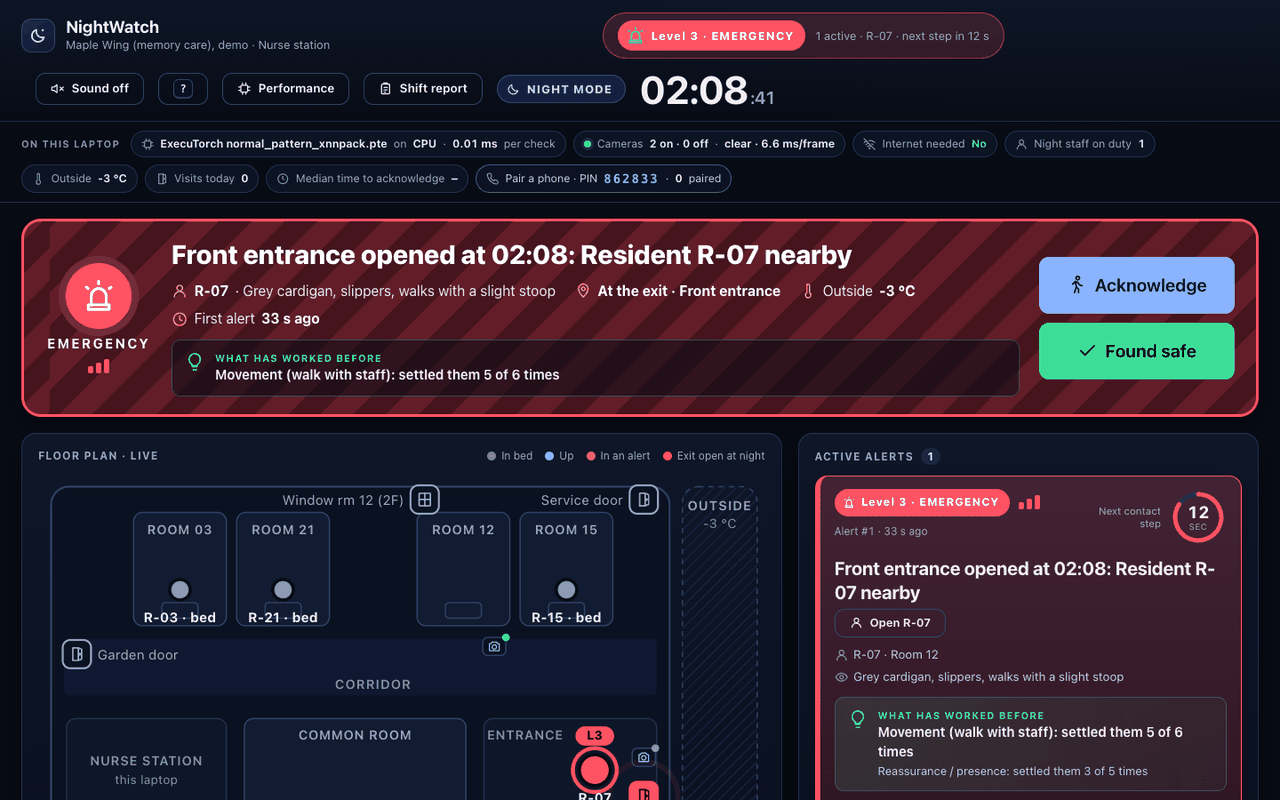
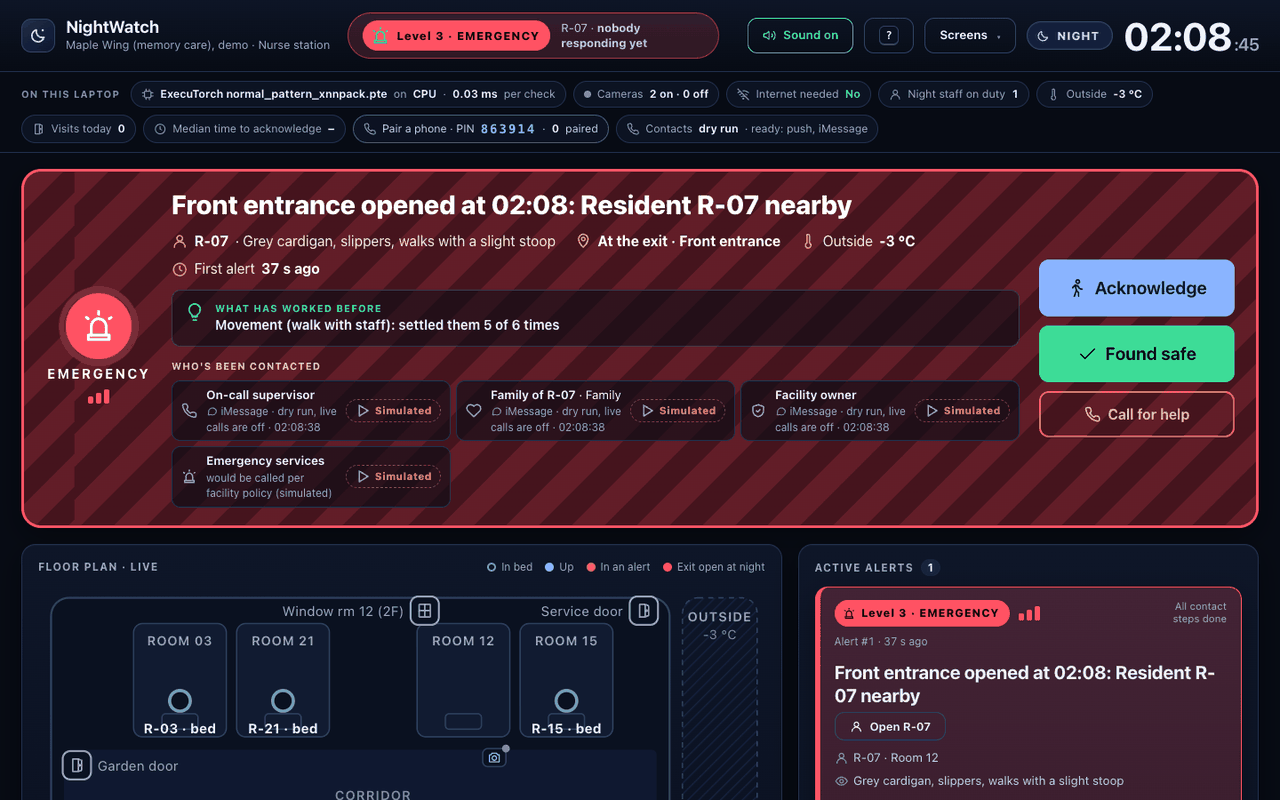
README, JUDGES.md and screenshots for the final UI
New shots from a private server on :8001: contact fan-out on an emergency (dry run, every
contact Simulated), family view, help, wall during an emergency, settings floor-plan editor;
re-took dashboard, staff phone, camera (labelled illustration), radar (SIMULATED), report,
perf, home, story. README: contacts (free ntfy/iMessage, optional Twilio, emergency services
always simulated), pairing QR + SSE, restart-safe state and logs, QA gate, updated limits.

diff --git a/README.md b/README.md
@@ -9,7 +9,9 @@ Judges: a 2-minute guided tour is in **[docs/JUDGES.md](docs/JUDGES.md)**.
 - **Sees the moment that matters.** A hallway camera runs a person detector through ExecuTorch on the laptop;
   when a resident's feet cross the doorway line going out at night, the night phone gets a quiet heads-up.
 - **Climbs only when nobody answers.** Heads-up → urgent (exit door opens) → emergency (still no answer):
-  all phones, on-call supervisor, then the facility's emergency chain. "I'm going" stops the climb.
+  every staff phone alarms and the contact list fans out (on-call supervisor, family, owner) over free channels
+  (ntfy push, iMessage) or optional Twilio calls/SMS. It's a dry run until the nurse station turns it on, and
+  emergency services are always simulated. "I'm going" stops the climb.
 - **Hands over the paperwork.** Every closed alert gets the care team's severity badge and a draft care-record
   entry in their format; the morning shift report is one page.
 
@@ -30,18 +32,23 @@ Then:
 
 1. On <http://localhost:8000/sim/> (presenter page) click **R-07 heads for the front door** (02:08 · night, key **1**).
 2. Watch <http://localhost:8000/dashboard/>: a heads-up, then the front door opens (urgent), then, if nobody
-   answers, the full-screen emergency view. Open <http://localhost:8000/staff/> in another window to be the
+   answers, the full-screen emergency view with **Who's been contacted** (a dry run: each contact shows
+   *Simulated*). Open <http://localhost:8000/staff/> in another window to be the
    night nurse: tap **I'm going** and the climb stops; **Found safe** closes it.
 3. Click **R-15 ensuite trip** (key **2**): a normal 3 a.m. bathroom trip. Nothing fires.
 4. Open <http://localhost:8000/report/> for the morning handover, and <http://localhost:8000/perf/> for live
-   ExecuTorch timings.
+   ExecuTorch timings. <http://localhost:8000/> (home) lists every screen.
+
+Before a demo or the code freeze, `./scripts/qa.sh` (Windows: `powershell -ExecutionPolicy Bypass -File scripts/qa.ps1`)
+runs the [QA gate](#qa-gate) on its own server.
 
 The full judge walkthrough, including the camera, is in [docs/JUDGES.md](docs/JUDGES.md).
 
 ## Why on-device
 
-- **Offline.** Facility internet drops at night. Everything (models, alerts, phones over the local Wi-Fi) works
-  with the internet unplugged; the dashboard shows "Internet needed: No".
+- **Offline.** Facility internet drops at night. Detection, escalation and the staff phones (over the local
+  Wi-Fi) work with the internet unplugged; the dashboard shows "Internet needed: No". Only the optional
+  off-site contact messages need a connection, and without one they are marked simulated with the reason.
 - **Privacy.** Cameras pointed at people with dementia can't stream to a cloud. Frames are analysed in memory
   and dropped; only positions reach the alert logic; the nurse station shows a radar, never video. Each camera
   can be off or night-only, and off means the webcam is released.
@@ -86,7 +93,11 @@ recorded in [nightwatch/bench/README.md](nightwatch/bench/README.md). We don't q
   resident's own pattern from their first weeks.
 - Demo residents are **synthetic** ([nightwatch/demo/facility.json](nightwatch/demo/facility.json)); every number there is invented.
 - The presenter scenario **Camera: R-07 walks out (simulated)** plays **simulated** camera data and is tagged SIMULATED on screen.
-- The Level 3 contact chain is **simulated**: it never calls or texts anyone, and never auto-dials 911.
+- Contacting people outside the building is a **dry run by default**: every contact is marked *Simulated* until
+  the nurse-station laptop turns live sending on (it resets to off on every start). **Emergency services are always
+  simulated**, and emergency short numbers (911, 112, 999 …) are refused. iMessage needs a Mac (the Snapdragon
+  laptop can use ntfy push or Twilio); ntfy push goes through ntfy.sh unless you self-host it.
+- State survives a restart within the same night, but there is no database: one laptop, one night's state file.
 - Other sensor events in the demo come from the browser simulator; real door and heart-rate bridges exist (see [Sensors](#sensors)).
 - NPU results: see [Measured performance](#measured-performance). Until they are in the bench README, the claim is
   "built for the NPU", not "runs on the NPU".
@@ -97,17 +108,21 @@ recorded in [nightwatch/bench/README.md](nightwatch/bench/README.md). We don't q
 | | |
 |---|---|
 | ![Staff phone during an urgent alert, with "I'm going" and "Found safe"](docs/img/staff-phone-alert.png) | ![Nurse station during a Level 3 emergency](docs/img/dashboard-emergency.png) |
-| **Staff phone** `/staff/` (375 px): what to look for, what has calmed this resident before, one-tap answers. | **Emergency** at the nurse station: still no answer, so all phones and the contact chain (simulated). |
+| **Staff phone** `/staff/` (375 px): what to look for, what has calmed this resident before, one-tap answers. | **Emergency** at the nurse station: still no answer, so a full-width takeover, all phones, and the contact fan-out. |
 | ![Camera radar on the dashboard during the simulated walk-out, tagged SIMULATED](docs/img/camera-radar-simulated.png) | ![Camera page with the doorway line drawn; the feed is an illustration](docs/img/camera-page.png) |
 | **Camera radar** during *Camera: R-07 walks out* (simulated camera data, tagged on screen). Positions only, never video. | **Camera page** `/camera/`: privacy view, live ms/frame, doorway set. **The feed in this screenshot is an illustration** (a drawn figure on a synthetic canvas; the capture browser has no webcam), so the detector correctly reports no person. |
 | ![Morning shift report](docs/img/shift-report.png) | ![On-device performance page](docs/img/perf.png) |
 | **Shift report** `/report/`: alerts, response times, severity, draft care records, camera switches. | **Performance** `/perf/`: live ExecuTorch timings; runs labelled with the machine they came from. |
 | ![Home page with every screen and the phone-pairing PIN](docs/img/home.png) | ![Story mode, step 1](docs/img/story.png) |
 | **Home** `/`: every screen, phone pairing PIN, system status. | **Story mode** `/story/`: a guided run of the real system. |
-| ![Settings page](docs/img/settings.png) | ![Wall display](docs/img/wall.png) |
-| **Settings** `/settings/`: night hours, escalation waits, residents, exits, cameras (local only). | **Wall display** `/wall/`: one glanceable status for a corridor screen. |
+| ![Floor-plan editor in Settings](docs/img/settings-floor-plan.png) | ![Wall display during an emergency](docs/img/wall.png) |
+| **Settings** `/settings/`: drag-and-drop floor-plan editor, night hours, escalation waits, residents, exits, cameras (saved locally, git-ignored). | **Wall display** `/wall/`: one glanceable status for a corridor screen, here during an emergency. |
+| ![Family view for one resident](docs/img/family.png) | ![Help center](docs/img/help.png) |
+| **Family view** `/family/?id=R-07`: "How was their night?" in plain words for one resident; no video, no other residents. | **Help** `/help/`: on-shift quick card, setup, troubleshooting, privacy. |
 
-Also on the laptop: `/help/` (help) and `/family/` ("How was their night?").
+![Emergency takeover with "Who's been contacted": every contact marked Simulated (dry run)](docs/img/contacts-fanout.png)
+
+<sub>Level 3 takeover with the contact fan-out in dry-run mode: on-call supervisor, family and owner would get an iMessage; emergency services are always simulated.</sub>
 
 ---
 
@@ -119,12 +134,15 @@ Also on the laptop: `/help/` (help) and `/family/` ("How was their night?").
 - [Run it (details)](#run-it-details)
 - [Hallway camera (person detection on the device)](#hallway-camera-person-detection-on-the-device)
 - [Phone pairing (security)](#phone-pairing-security)
+- [Emergency contacts (fan-out)](#emergency-contacts-fan-out)
+- [Restart-safe state and logs](#restart-safe-state-and-logs)
+- [QA gate](#qa-gate)
 - [Sensors](#sensors)
 - [Demo script (≤ 5 min)](#demo-script--5-min)
 - [Benchmark](#benchmark)
 - [Data and privacy](#data-and-privacy)
 - [Sources](#sources)
-- Other docs: [docs/JUDGES.md](docs/JUDGES.md) · [docs/ARCHITECTURE.md](docs/ARCHITECTURE.md) · [docs/PITCH.md](docs/PITCH.md) · [docs/SUBMISSION.md](docs/SUBMISSION.md) · [docs/DEMO_VIDEO.md](docs/DEMO_VIDEO.md)
+- Other docs: [docs/JUDGES.md](docs/JUDGES.md) · [docs/ARCHITECTURE.md](docs/ARCHITECTURE.md) · [docs/PITCH.md](docs/PITCH.md) · [docs/SUBMISSION.md](docs/SUBMISSION.md) · [docs/DEMO_VIDEO.md](docs/DEMO_VIDEO.md) · [docs/PRIVACY_NOTICE.md](docs/PRIVACY_NOTICE.md) · [docs/UX_AUDIT.md](docs/UX_AUDIT.md)
 
 ## The problem
 
@@ -148,7 +166,8 @@ See [Sources](#sources) for more cases and the numbers we cite.
 - **Day vs night.** During the day, door openings are logged as visits. From 21:00 to 05:00 (the night band used in care records), the same door is urgent.
 - **No false alarms for normal nights.** A short ensuite trip at 3 am stays quiet; a heads-up clears itself when the resident settles back into bed.
 - **Speaks the care team's language.** Every closed alert gets the team's derived severity badge (1 routine / 2 notable / 3 escalation, from the highest level reached) and a draft care-record entry in their event format: location as a type (never a room), night as a band, affect and intervention left for staff to confirm. Less paperwork for the one person on nights.
-- **It never dials anyone in this build.** Contact steps are shown and logged as "(simulated)".
+- **Calls for help, safely.** At Level 3 (or when staff press **Call for help**) the contact list fans out; see
+  [Emergency contacts](#emergency-contacts-fan-out). Dry run by default; emergency services are always simulated.
 
 **Architecture diagram and data map:** [docs/ARCHITECTURE.md](docs/ARCHITECTURE.md).
 
@@ -185,7 +204,9 @@ Fastest path on any machine: install, then let the health check tell you what wo
 ```bash
 pip install -r requirements.txt        # Windows on ARM: powershell -ExecutionPolicy Bypass -File setup_windows.ps1
 python nightwatch/check.py             # add --npu once the QNN models are in models/
-python -m pytest -q tests              # escalation rules, camera confirmation, tracker, box decoding, pairing
+python -m pytest -q tests -m "not e2e" # unit tests: escalation rules, camera, tracker, pairing, contacts, persistence
+python -m pytest -q tests/e2e          # ~20 s: a short run of the QA gate on its own server
+./scripts/qa.sh                        # full QA gate (~3 min); Windows: powershell -ExecutionPolicy Bypass -File scripts/qa.ps1
 ```
 
 Python 3.10+. The server is standard library only; loading a model needs `torch` and `executorch`
@@ -197,7 +218,8 @@ python nightwatch/server.py --model models/normal_pattern_xnnpack.pte --device C
 
 Open three tabs: <http://localhost:8000/dashboard/> (nurse station), <http://localhost:8000/staff/> (night
 staff phone), <http://localhost:8000/sim/> (presenter page and sensor simulator). Add `--lan` so a real phone on the same Wi-Fi
-can open `/staff/` at this computer's IP. The full API is documented at the top of
+can open `/staff/` at this computer's IP. Add `--fresh` to start a clean night instead of restoring tonight's
+saved state. The full API is documented at the top of
 [nightwatch/server.py](nightwatch/server.py).
 
 Retrain / re-export:
@@ -266,7 +288,54 @@ can see or answer alerts. The laptop itself is trusted; any other device must en
 the nurse-station dashboard** (also printed at startup) once. It then gets a random token that it sends with every
 request; only a hash is stored (`logs/paired_devices.json`, git-ignored). Wrong PINs lock a device out for 60 s
 after 5 tries. Pages hold no data; every `/api/` call from another device without a valid token gets `401`.
-`--pin 123456` fixes the PIN for a demo; `--unpair-all` forgets every phone. Code: [nightwatch/pairing.py](nightwatch/pairing.py).
+`--pin 123456` fixes the PIN for a demo; `--unpair-all` forgets every phone. The home page (`/home/`) shows the
+phone link as a QR code generated on the laptop (no internet needed). Live updates use Server-Sent Events
+(`/api/events`); a paired phone passes its token as `?token=`. Code: [nightwatch/pairing.py](nightwatch/pairing.py).
+
+## Emergency contacts (fan-out)
+
+When an alert first reaches Level 3, or a staff member presses **Call for help**, NightWatch contacts the list
+kept on the presenter page (`/sim/` → *Contacts · who gets called*, laptop only; saved to git-ignored
+`data/contacts.local.json`). Each contact has a role (on-call, family, owner, emergency services, other) and a channel:
+
+| Channel | Cost | Needs |
+|---|---|---|
+| `push` | free | [ntfy](https://ntfy.sh): the contact subscribes to a private topic in the ntfy app (`NTFY_SERVER` to self-host) |
+| `imessage` | free | a Mac: the laptop's Messages app sends it (not available on the Windows laptop) |
+| `call`, `sms` | paid | Twilio: `TWILIO_ACCOUNT_SID`, `TWILIO_AUTH_TOKEN`, `TWILIO_FROM` in the environment, never in a file |
+| `simulated` | — | logged only |
+
+Channels combine with `+` (e.g. `push+imessage`). Safety rules, all tested in `tests/test_backend_notify*.py`:
+
+- **Dry run by default.** Nothing real is sent until the nurse-station laptop turns live sending on; that switch is
+  never saved, so every server start is a dry run again. In a dry run each contact shows *Simulated* with the reason.
+- **Emergency services are always simulated**, whatever their channel says. Emergency short numbers (911, 112,
+  999 …) and anything shorter than 8 digits are refused for every contact.
+- At most one real fan-out per alert per 60 s, 5 real calls/SMS per fan-out, 20 per hour.
+- Messages carry alert facts only (who, where, time, level, outside temperature), never video or health readings,
+  and start with "This is a NightWatch demo." Family contacts hear only about their own resident.
+- Sending runs in background threads with an 8 s timeout, so an alert never waits on the network. Staff phones on
+  the local Wi-Fi are alerted by the laptop either way.
+
+Code and the full rules: [nightwatch/notify.py](nightwatch/notify.py). API: `GET/POST /api/contacts`, `POST /api/notify`,
+`POST /api/contacts/test` (see [nightwatch/server.py](nightwatch/server.py)).
+
+## Restart-safe state and logs
+
+Alerts (history, care records, acknowledgements), events, visits, camera on/off/schedule, doorway lines and the demo
+clock are saved to `logs/night_state.json` (git-ignored) about 1 s after every change, and restored on the next start
+if the file is from the same night; `--fresh` starts clean. Ctrl+C saves before exiting. Requests, engine events and
+errors go to `logs/nightwatch.log` (JSON lines, rotated at 5 MB). `GET /api/health` reports the model, cameras,
+uptime, git version and whether state was restored.
+
+## QA gate
+
+[`scripts/qa.py`](scripts/qa.py) (standard library only) starts its **own** server on a free port with a temp copy of
+the demo facility, runs every flow (static page checks, unanswered elopement with escalation timings, acknowledged
+elopement, bathroom trip, day visits, camera pause, phone pairing, perf), always stops the server, prints
+PASS/FAIL/WARN and writes `logs/qa/<timestamp>.md`. Exit code 0 only if nothing failed. `--rules` skips the models,
+`--only static,pairing` runs a subset, `--lan-check` also calls it over the LAN IP. Wrappers:
+[`scripts/qa.sh`](scripts/qa.sh), [`scripts/qa.ps1`](scripts/qa.ps1).
 
 ## Sensors
 
@@ -314,6 +383,8 @@ go to `logs/bench/`; setup, caveats and the results tables are in [nightwatch/be
 - The design was informed by a memory-care professional on our team and de-identified care records.
   Those records stay in `data/` (git-ignored) and are never committed. [`tools/build_profile.py`](tools/build_profile.py) turns them
   into aggregate-only profiles, locally.
+- Settings, contacts and paired-phone hashes live in git-ignored `data/` and `logs/` on the laptop only.
+- A families' notice template for facilities: [docs/PRIVACY_NOTICE.md](docs/PRIVACY_NOTICE.md) (template, not legal advice).
 
 ## Sources
 

diff --git a/docs/JUDGES.md b/docs/JUDGES.md
@@ -10,8 +10,12 @@ Residents are **synthetic**. Anything marked *simulated* below is labelled that 
 
 Open <http://localhost:8000/> (it goes to `/home/`).
 
-**You should see:** every screen as a card, a 6-digit phone-pairing PIN, and *System status* showing the
-ExecuTorch models that are live (`normal_pattern_*.pte`, `person_ssdlite_*.pte`) and whether they run on CPU or NPU.
+**You should see:** *Tonight so far* (alerts, median response, records to file), every screen as a card, the
+6-digit phone-pairing PIN with a QR code for the phone link, and *System status* showing the ExecuTorch models that
+are live (`normal_pattern_*.pte`, `person_ssdlite_*.pte`) and whether they run on CPU or NPU. The same navigation bar
+is on every page.
+
+![Home page](img/home.png)
 
 ## 0:15 · Set up two windows
 
@@ -27,9 +31,11 @@ On the presenter page, click **R-07 heads for the front door** (or press **1**).
 |---|---|
 | ~8 s | Clock jumps to **02:08 · NIGHT**. Level 1 **heads-up**: R-07 is up, unusual for this hour (the normal-pattern model through ExecuTorch). A countdown shows when it climbs. |
 | ~23 s | R-07 reaches the exit, the **front entrance opens**: Level 2 **urgent**, door turns red on the floor plan. |
-| ~38 s | Nobody answered, so Level 3 **emergency**: a full-width red takeover at the top, all phones alarmed, then the contact chain (on-call supervisor, emergency services) shown and logged as **(simulated)**. Nothing is actually dialled. |
+| ~38 s | Nobody answered, so Level 3 **emergency**: a full-width red takeover at the top, all staff phones alarm, and **Who's been contacted** fills in: on-call supervisor, family of R-07, owner, emergency services. Each shows **Simulated** because contacts are a dry run until the laptop turns live sending on, and emergency services are always simulated. |
 
-![Level 3 emergency on the nurse station](img/dashboard-emergency.png)
+![Level 3 takeover with the contact fan-out, every contact Simulated](img/contacts-fanout.png)
+
+Also open <http://localhost:8000/wall/> on a second screen: the corridor display turns into a full-screen emergency.
 
 ## 1:00 · The answered night
 
@@ -67,9 +73,18 @@ HALLWAY), never video. Try the camera's **ON** switch: off means the server drop
   which runs NPU vs CPU (whatever builds exist in `models/`) on this laptop. Each run is labelled with the
   machine it ran on; runs from the developer MacBook say *Dev MacBook (not the demo hardware)*.
 
+## 1:50 · For families and staff (optional)
+
+- <http://localhost:8000/family/?id=R-07>: "How was their night?" in plain words for one resident, no video and no
+  other residents.
+- <http://localhost:8000/help/>: what to do at each level, setup and troubleshooting.
+- <http://localhost:8000/settings/>: drag rooms, doors and cameras on the floor-plan editor (please don't press
+  *Save*: it restarts the night).
+
 ## 1:55 · Pull the network
 
-Turn Wi-Fi off. **You should see:** everything keeps working; the dashboard reads *Internet needed: No*.
+Turn Wi-Fi off. **You should see:** detection, escalation and the staff phones keep working; the dashboard reads
+*Internet needed: No*. (Only optional off-site contact messages need the internet; without it they're marked simulated.)
 
 ## What's real and what's simulated
 
@@ -78,7 +93,8 @@ Turn Wi-Fi off. **You should see:** everything keeps working; the dashboard read
 | Two ExecuTorch models (`.pte`): person detector and normal-pattern model, CPU via XNNPACK; QNN export path for the NPU | Whether this run uses the NPU: check *System status* on `/home/` or the chips on the dashboard, which name the device |
 | Person detection on webcam frames, tracker, doorway-line crossing, privacy view, camera off / night-only | **Camera: R-07 walks out** feeds simulated camera data (tagged SIMULATED) |
 | Escalation ladder, day/night rules, acknowledgement, found safe, severity, draft care records, shift report | Residents and their profiles are synthetic; sensor events in scenarios come from the simulator |
-| Phone pairing with a PIN over local Wi-Fi; works offline | The L3 contact chain never calls anyone: steps are shown and logged as (simulated) |
+| Phone pairing with a PIN over local Wi-Fi; works offline | Contact fan-out is a **dry run** in the demo (each contact: *Simulated*); real ntfy / iMessage / Twilio sending exists but only when the laptop turns it on |
+| Restart-safe state, QA gate (`scripts/qa.py`) | **Emergency services are always simulated**: NightWatch never calls 911 |
 | `/perf/` measurements are real measurements of the machine they ran on | "Normal" for the small model was learned from simulated days |
 
 More: [README](../README.md) (honest limits, measured performance) · [ARCHITECTURE.md](ARCHITECTURE.md) (diagram, data map).
